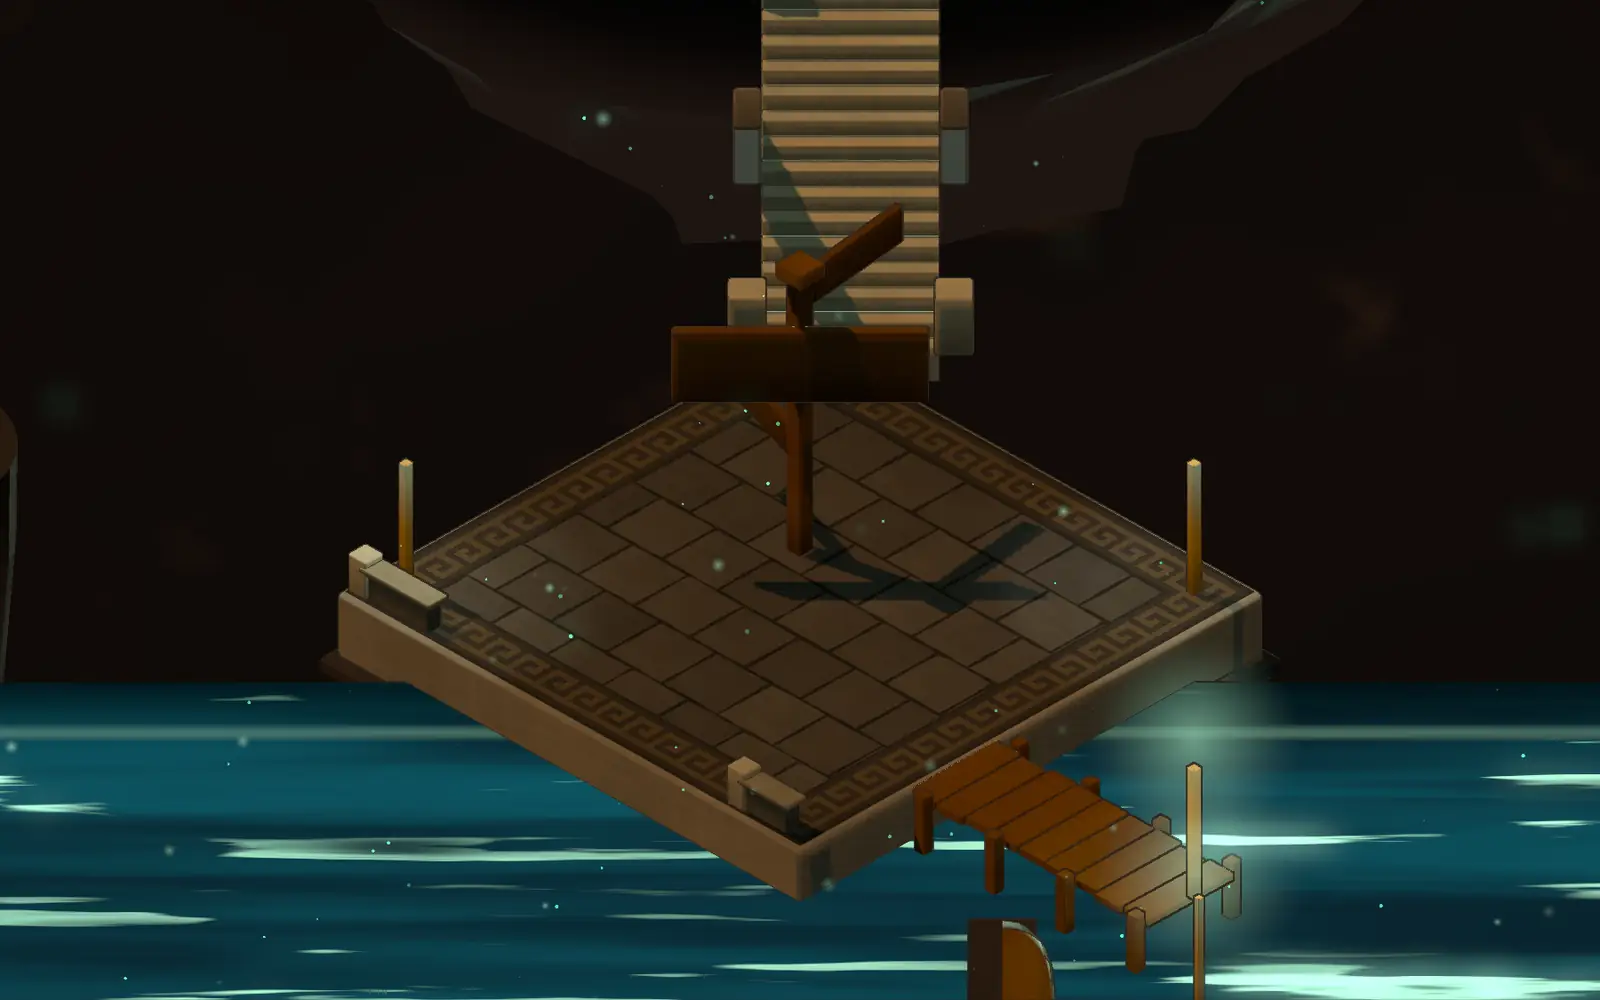
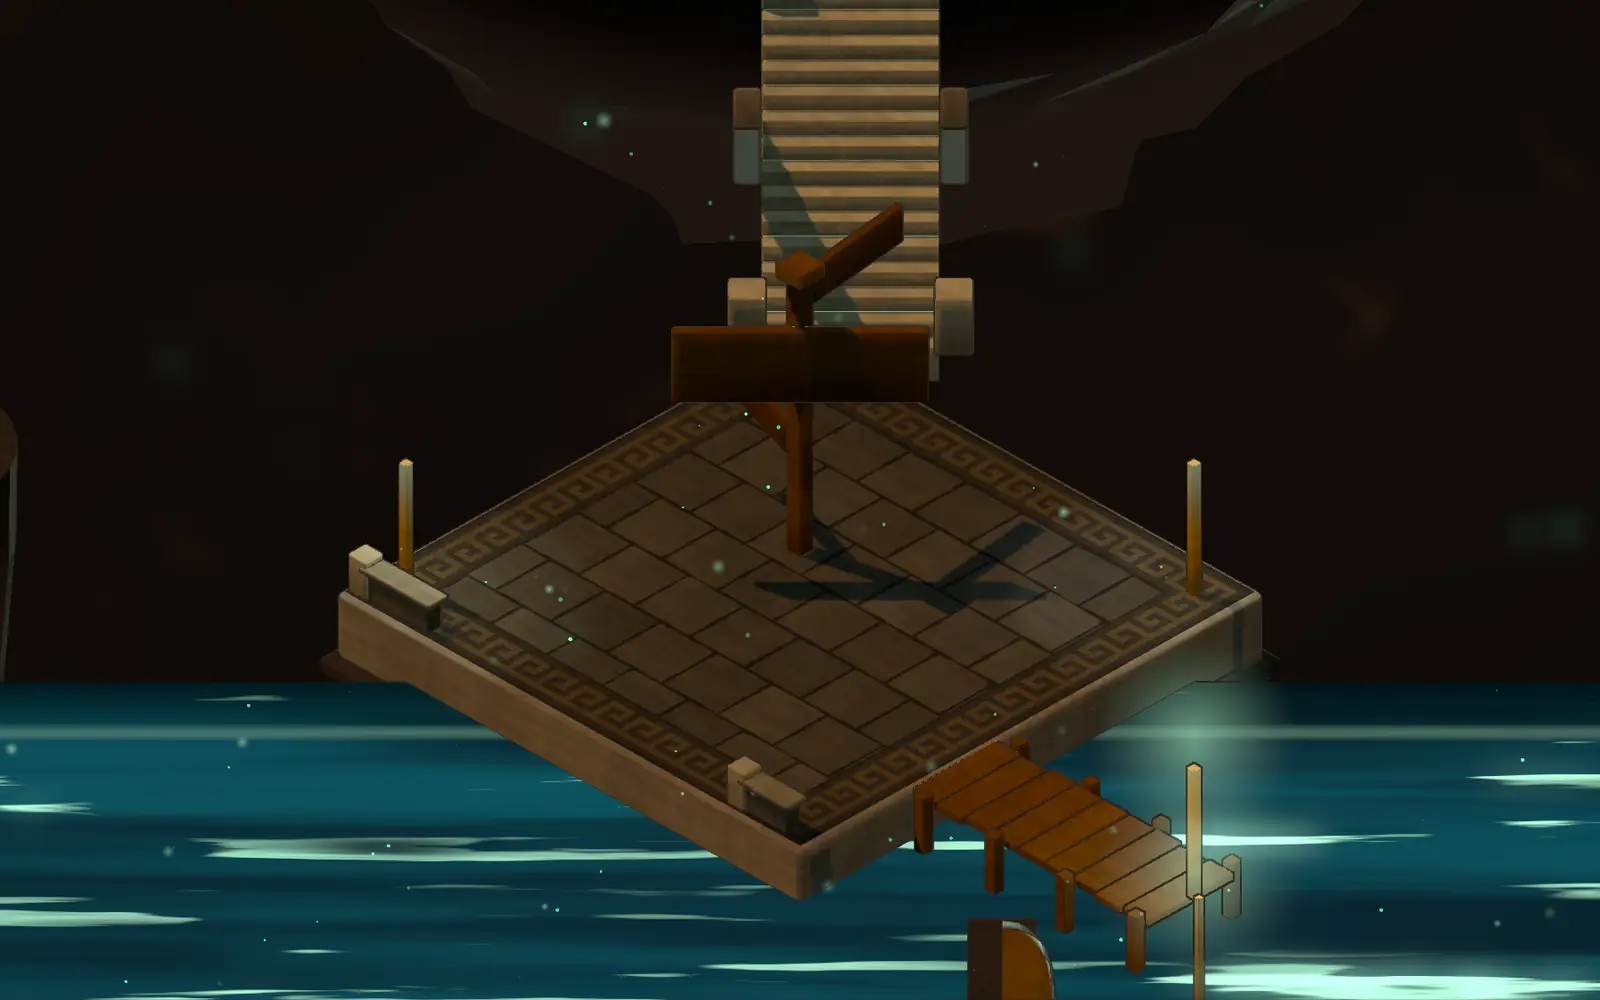
Phone home: the temple framed big under the call (narrower phone frame, gate top kept clear of the plaque); painted surfaces get hand-painted structure (stepped value patches and crisp brush strokes instead of smooth noise); world and moment posters re-rendered

diff --git a/src/components/world/kit/paint.ts b/src/components/world/kit/paint.ts
@@ -163,8 +163,10 @@ export function paint(S: Shared, ramp: THREE.Texture, color: string, kind: Kind,
           }
           vec2 bp = an.y > 0.6 ? vWP.xz : vec2(vWP.x - vWP.z, vWP.y);
           float big = fbm(bp * 0.16);
+          big = mix(big, (floor(big * 4.0) + smoothstep(0.42, 0.58, fract(big * 4.0))) / 4.0, 0.8);
           float brush = n2(vec2(bp.x * 0.9 + bp.y * 0.3, bp.y * 5.0 - bp.x * 0.4)) * 0.6 + n2(bp * vec2(3.0, 0.7)) * 0.4;
-          diffuseColor.rgb *= mix(0.74, 1.22, big) * mix(0.86, 1.1, brush);
+          brush = smoothstep(0.38, 0.46, brush) * 0.55 + smoothstep(0.58, 0.64, brush) * 0.45;
+          diffuseColor.rgb *= mix(0.74, 1.22, big) * mix(0.88, 1.08, brush);
           diffuseColor.rgb = mix(diffuseColor.rgb, diffuseColor.rgb * vec3(0.84, 0.94, 1.14), smoothstep(0.55, 0.78, big) * 0.6);
           ${kind.k === "stone" ? "diffuseColor.rgb *= mix(0.5, 1.0, smoothstep(0.0, 1.8, vH));" : ""}
           ${PATTERN[kind.k]}`,

diff --git a/src/components/world/scene.ts b/src/components/world/scene.ts
@@ -273,8 +273,8 @@ export function mount(host: HTMLElement, o: WorldOpts) {
     wantW = A.w + (Z.w - A.w) * f;
     const [W, H] = v.size();
     if (W / H < 0.8) {
-      wantW = Math.min(wantW, 40) - 10 * (i === 0 ? 1 - f : 0);
-      want.addScaledVector(UP, -3.5 * (i === 0 ? 1 - f : 0));
+      wantW = Math.min(wantW, 40) - 14 * (i === 0 ? 1 - f : 0);
+      want.addScaledVector(UP, 1.5 * (i === 0 ? 1 - f : 0));
     }
     const intro = Math.min(1, Math.max(0, (ign.value - 0.3) / 3.2));
     wantH -= (1 - Math.pow(1 - intro, 3)) * 3 * Math.max(0, 1 - p * 2);
